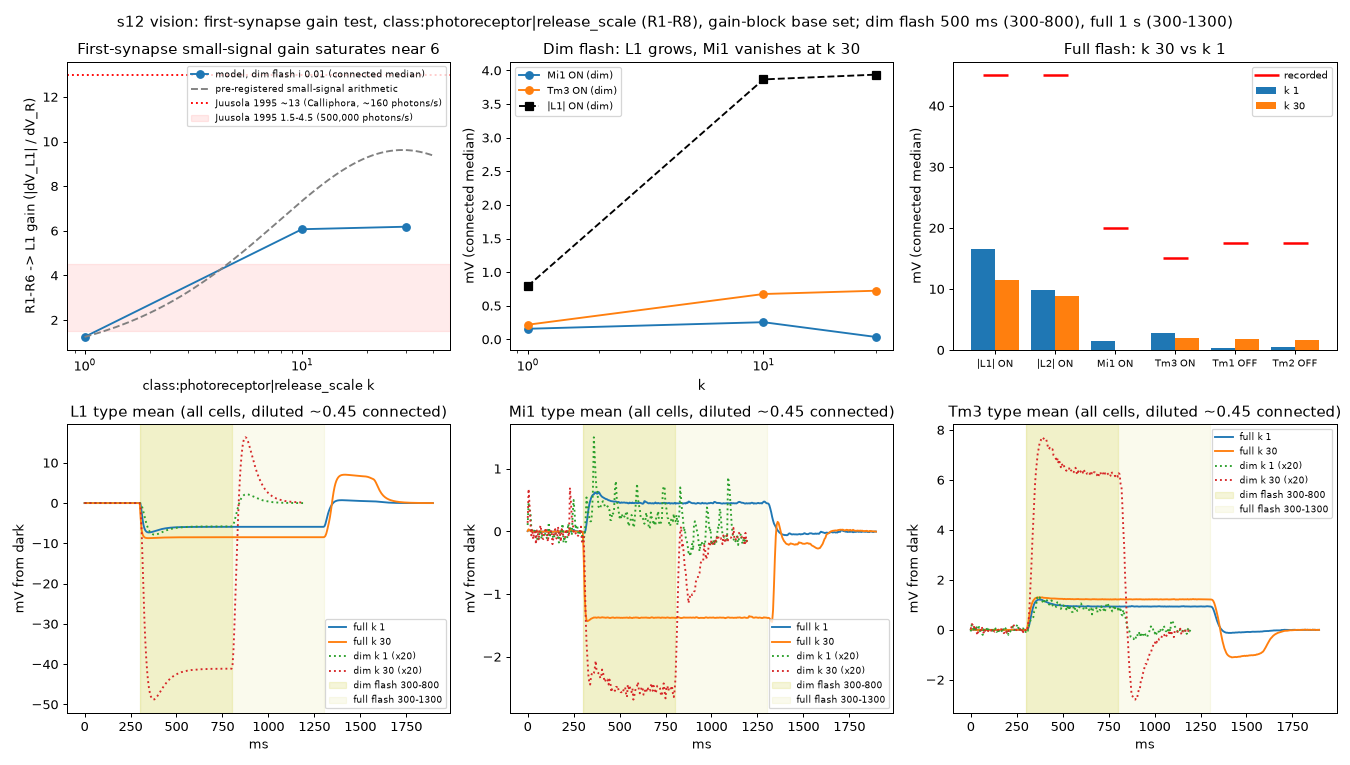
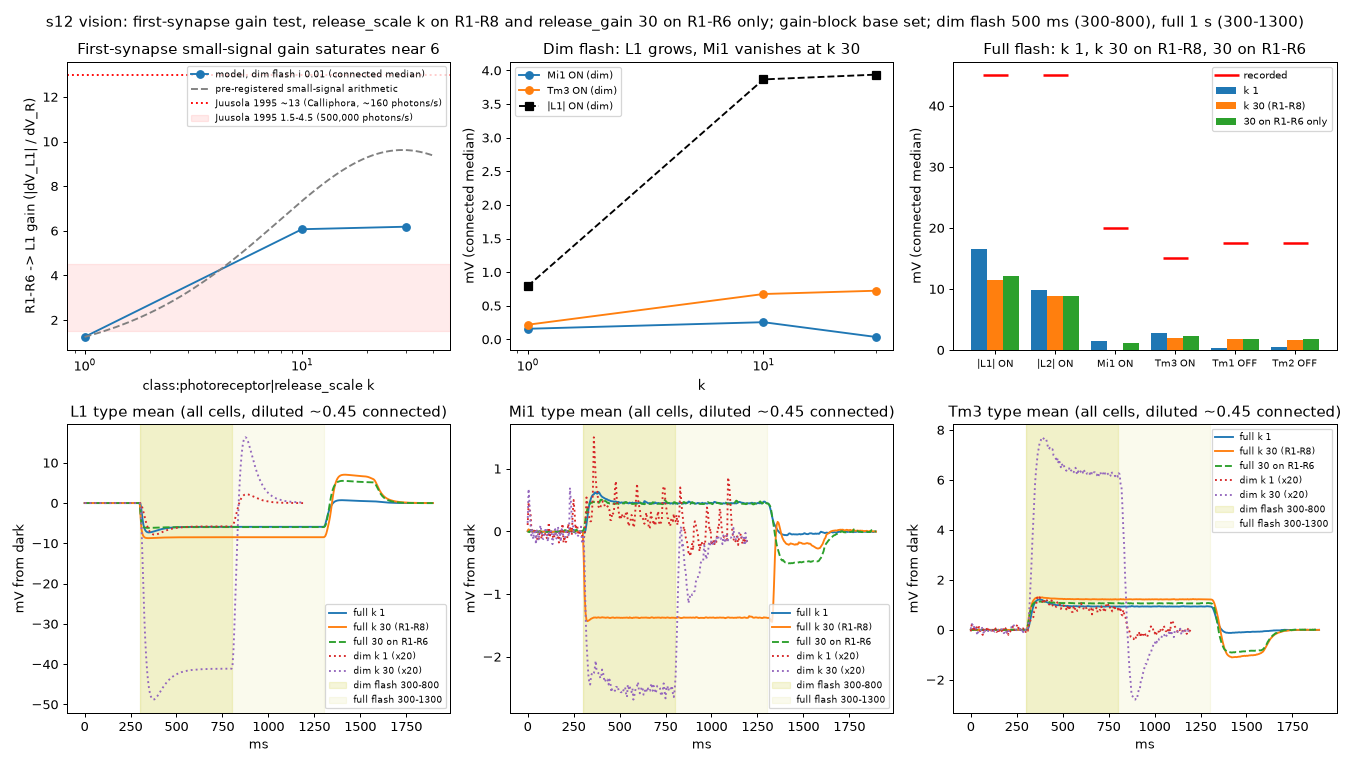
F-VISION-8 and DECISIONS result: first-synapse gain saturates near 6 (bound (E-v0)/4s, derived); R1-R6-only arm restores Mi1 (+1.13 mV), confirming the R7/R8 reading; correction of the pre-registration's field claim; figure adds the R1-R6 arm

diff --git a/scripts/probes/visual_first_synapse_fig.py b/scripts/probes/visual_first_synapse_fig.py
@@ -5,7 +5,7 @@ matplotlib.use("Agg")
 import matplotlib.pyplot as plt
 R = "runs/s12/vision/"
 dim = {1: "flash_dim_i0.01", 10: "flash_kR10_i0.01", 30: "flash_kR30_i0.01"}
-full = {1: "flash_G_k1", 30: "flash_kR30_i1"}
+full = {1: "flash_G_k1", 30: "flash_kR30_i1", "R16": "flash_R16kR30_i1"}   # R16: release_gain 30 on R1-R6 only (addendum 03:53)
 def score(f):
     s = json.load(open(R + f + ".score.json"))
     return {k.split(":")[0] + (":" + k.split(":")[1] if k.startswith(("Tm1", "Tm2")) else ""): v["median_connected"] for k, v in s.items()}
@@ -30,23 +30,24 @@ a.set_xscale("log"); a.set_xlabel("k"); a.set_ylabel("mV (connected median)"); a
 a.set_title("Dim flash: L1 grows, Mi1 vanishes at k 30")
 a = ax[0, 2]
 names = ["L1", "L2", "Mi1", "Tm3", "Tm1:off_max", "Tm2:off_max"]
-s1, s30 = score(full[1]), score(full[30])
+s1, s30, s16 = score(full[1]), score(full[30]), score(full["R16"])
 x = np.arange(len(names))
-a.bar(x - 0.2, [abs(s1[n]) for n in names], 0.4, label="k 1")
-a.bar(x + 0.2, [abs(s30[n]) for n in names], 0.4, label="k 30")
+a.bar(x - 0.27, [abs(s1[n]) for n in names], 0.27, label="k 1")
+a.bar(x, [abs(s30[n]) for n in names], 0.27, label="k 30 (R1-R8)")
+a.bar(x + 0.27, [abs(s16[n]) for n in names], 0.27, label="30 on R1-R6 only")
 rec = [45, 45, 20, 15, 17.5, 17.5]
 a.plot(x, rec, "r_", ms=20, mew=2, label="recorded")
 a.set_xticks(x); a.set_xticklabels(["|L1| ON", "|L2| ON", "Mi1 ON", "Tm3 ON", "Tm1 OFF", "Tm2 OFF"], fontsize=8)
-a.set_ylabel("mV (connected median)"); a.set_title("Full flash: k 30 vs k 1"); a.legend(fontsize=8)
+a.set_ylabel("mV (connected median)"); a.set_title("Full flash: k 1, k 30 on R1-R8, 30 on R1-R6"); a.legend(fontsize=8)
 for j, (ty, lim) in enumerate((("L1", None), ("Mi1", None), ("Tm3", None))):
     a = ax[1, j]
-    for f, lab, st in ((full[1], "full k 1", "-"), (full[30], "full k 30", "-"), (dim[1], "dim k 1 (x20)", ":"), (dim[30], "dim k 30 (x20)", ":")):
+    for f, lab, st in ((full[1], "full k 1", "-"), (full[30], "full k 30 (R1-R8)", "-"), (full["R16"], "full 30 on R1-R6", "--"), (dim[1], "dim k 1 (x20)", ":"), (dim[30], "dim k 30 (x20)", ":")):
         d = json.load(open(R + f + ".json")); t = np.asarray(d["t_ms"]); x_ = np.asarray(d["trace"][ty])
         base = x_[(t >= 100) & (t < 300)].mean(); sc_ = 20 if "dim" in lab else 1
         a.plot(t, (x_ - base) * sc_, st, label=lab)
     a.axvspan(300, 800, color="y", alpha=0.15, label="dim flash 300-800"); a.axvspan(300, 1300, color="y", alpha=0.07, label="full flash 300-1300")
     a.set_title(f"{ty} type mean (all cells, diluted ~0.45 connected)"); a.set_xlabel("ms"); a.set_ylabel("mV from dark")
     a.legend(fontsize=7)
-fig.suptitle("s12 vision: first-synapse gain test, class:photoreceptor|release_scale (R1-R8), gain-block base set; dim flash 500 ms (300-800), full 1 s (300-1300)")
+fig.suptitle("s12 vision: first-synapse gain test, release_scale k on R1-R8 and release_gain 30 on R1-R6 only; gain-block base set; dim flash 500 ms (300-800), full 1 s (300-1300)")
 fig.tight_layout(); fig.savefig("docs/media/s12_vision_first_synapse.png", dpi=90)
 print("ok")

diff --git a/docs/FINDINGS.md b/docs/FINDINGS.md
@@ -983,3 +983,31 @@ Target (held out; `data/measurements/targets_session6.csv`): Wang et al. 2025 me
     - Mi1's input conductance in dark and light;
     - the light responses and spiking/graded mode of Pm and Dm1 cells;
     - the ort/HisCl reversal in LMCs, measured against the lamina's local extracellular potential. Zheng et al. 2006 report the lamina intercellular space at −20 to −40 mV relative to the retina, and LMC potentials of −40 to −70 mV on the same reference, so the recorded 45 mV LMC swing includes any light-evoked change in the lamina field and is not directly a transmembrane amplitude (inferred).
+
+### F-VISION-8: the photoreceptor→LMC synapse is about 10× below the recorded small-signal gain, and in a single-compartment conductance cell no release scale can close it; the limit is driving force times release-curve steepness (s12, 6 Oct 03:59)
+- **Test** (DECISIONS, pre-registration 03:42, addendum 03:53, result 03:59; figure `docs/media/s12_vision_first_synapse.png`, viewed).
+  - Gain block base set; `visual_flash.py` dim flash (500 ms at 0.01 and 0.05 of the full flash) and full flash (1 s).
+  - Photoreceptor release scaled by k 1, 10, 30 on R1-R8 (`class:photoreceptor|release_scale`), then 30 on R1-R6 alone (per-type `release_gain` row, diagnostic).
+  - Conductances from `visual_conductance_state.py`, split by presynaptic type, graded and spiking (split residual about 0).
+- **Result.**
+  - The R1-R6→L1 small-signal gain is 1.24 at k 1 (L2 0.66). Recorded in *Calliphora*: about 13 at a dim background, 1.5-4.5 in bright light (Juusola, Uusitalo & Weckström 1995). Transfer to *Drosophila* is inferred.
+  - The gain saturates at 6.1-6.2 from k 10.
+  - L1's dark potential falls with k (−46.1, then −58.2 at k 30), because tonic dark release scales too. At k 30 it is 2 s.d. below Pantazis et al. 2008 (−43 ± 7.3 mV).
+  - With R1-R8 scaled, Mi1's full-flash ON response vanished (+0.003 mV), because R7/R8 histamine onto Mi1 (595 of 795 connected cells, about 11 synapses each) grew with light. With R1-R6 alone Mi1 returns to +1.13 mV (k 1: +1.51), and its inhibitory conductance falls in light.
+  - Tm1/Tm2 OFF grew from 0.35/0.53 to about 1.8 mV with either arm. Mi1, Tm3 and L1/L2 stay 4-18× short of their recordings.
+- **Mechanism (derived).** In a one-compartment cell with leak, excitation and a histamine-gated chloride conductance g_i (reversal E), let v₀ be the potential with g_i = 0 and a = 1 + g_e. If g_i is proportional to release r(V_R), the small-signal gain is
+  - gain = (E − v₀) · a · g_i / (a + g_i)² · (d ln r / dV_R) ≤ (E − v₀)/(4s),
+  - where 1/s is the release curve's logarithmic slope at the dark potential: the distance to the foot for a linear rule, the e-fold for an exponential one.
+  - In the model, E − v₀ = 25.2 mV (−70 against L1's −44.8) and s ≈ 0.65 mV, so the ceiling is about 9.7. Scaling release only slides g_i along the a·g_i/(a + g_i)² curve, which k 30 already sits on top of (g_i 1.17 against a 1.16).
+- **Sources on the two factors (measured unless marked).**
+  - Release extent: in *Calliphora* photoreceptor release falls steeply about 12 mV below the dark resting potential (Uusitalo et al. 1995, J Neurophysiol, abstract). With a linear rule that foot gives a ceiling near 0.5. So the recorded gain needs a curved release with e-fold s of about 0.5-1 mV (inferred).
+  - Driving force: the lamina space is −20 to −40 mV against the retina in darkness, with LMCs at −40 to −70 on the same reference (Zheng et al. 2006, *Drosophila*). In *Calliphora* the space sits 30 mV below the retina in the dark and depolarises in light (Weckström & Laughlin 2010). The LMC transmembrane dark potential may therefore be 20-30 mV less negative than the recorded one (inferred). The ort reversal against that transmembrane potential is not measured.
+  - At s = 1 mV, 13 needs E − v₀ ≈ 52 mV; at s = 2 mV, about 104 mV (derived).
+- **Reading.**
+  - The first-synapse shortfall is a model-form limit: a linear release rule with a near-zero foot plus a recorded-potential operating point. It is not a missing gain.
+  - The R7/R8 inputs to L1 and Mi1 in the medulla are large enough to reverse Mi1's light response when overdriven, so any photoreceptor-level scale must be per type.
+  - Next discriminating experiment: a curved release rule (bounded s) together with an LMC transmembrane offset from the lamina field (bounded 0-30 mV). Train on the dim gain; hold out L1's dark potential and the full-flash medulla responses.
+  - Recordings that would settle it:
+    - a *Drosophila* R→LMC gain or release curve;
+    - LMC transmembrane potential and ort reversal against the lamina space;
+    - the sign and strength of R8→Mi1.

diff --git a/docs/DECISIONS.md b/docs/DECISIONS.md
@@ -2497,3 +2497,36 @@ At k 30 the full flash flipped Mi1 to −1.4 mV, failing the 1.0-2.5 mV predicti
 - L1 is unchanged from the k 30 arm within 0.5 mV.
 
 If Mi1 still flips, the R7/R8 reading is wrong.
+
+### Result: first-synapse gain and the R1-R6 addendum (6 October, 03:59; `runs/s12/vision/flash_kR{10,30}_i0.01`, `flash_kR30_i1`, `flash_R16kR30_i1`, `cstate2_kR{1,30}`, `cstate2_R16kR30`; figure `docs/media/s12_vision_first_synapse.png`, viewed; F-VISION-8; nothing adopted)
+
+Against the 03:42 pre-registration (connected medians; dark potentials from the conductance probe, connected cells):
+
+| Arm | Dim R→L1 gain (pred.) | L1 dark (pred.) | L1 ON full (pred.) | Mi1 ON full (pred.) |
+|---|---|---|---|---|
+| k 1 | 1.24 | −46.1 | −16.6 | +1.51 |
+| k 10 | **6.07** (5-7.5, pass) | all-cell mean −47.4; connected not measured (−51.3 ± 2) | | |
+| k 30, R1-R8 | **6.18** (6-9.6, pass at the low edge) | **−58.2** (−57.6 ± 2, pass) | **−11.5** (−8 to −14, pass) | **+0.003** (1.0-2.5, **fail**) |
+| 30 on R1-R6 only (addendum) | | −57.6 | −12.1 (within 0.5 of k 30: **fail by 0.07 mV**) | **+1.13** (1.0-2.5, pass) |
+
+- **Held out.** L1's dark potential at k 30 is −58.2 (R1-R6 only −57.6) against Pantazis et al. 2008 −43 ± 7.3 mV: 2 s.d. below, as predicted. The arm fails the held-out check.
+- **Addendum.** Mi1 recovers (+1.13 mV), and its inhibitory conductance now falls in light (1.73 to 1.46 leak units; at k 30 on R1-R8 it rose, 1.85 to 2.49). So the k 30 flip was R7/R8 histamine onto Mi1, as the addendum read it.
+  - L1 moved 0.57 mV, just outside the declared 0.5 mV. The cause is that the class switch also scaled R7/R8→L1 synapses in the medulla (F-VISION-4); L1's dark inhibitory conductance drops from 1.28 to 1.17 without them.
+  - The same synapses explain the unconnected L1 cells that responded at k 30 (all-cell median −10.3). With R1-R6 alone the all-cell median is −1.3, so this is R7/R8 input, not lateral spread.
+- **Gain saturation.** The gain saturates at 6.1-6.2 by k 10, below the 13 recorded (*Calliphora*, dim background) and below the 9.6 small-signal estimate.
+  - The derived bound in F-VISION-8 is the general form. In a single-compartment conductance cell, the small-signal R→LMC gain cannot exceed (E_inh − v₀)/(4s), whatever the release scale. Here v₀ is L1's potential with no histamine (−44.8 mV), and s is the release curve's foot or e-fold below the dark potential (model 0.65 mV, effective). The model sits at 25.2/(4 × 0.65) ≈ 9.7.
+  - So a third release gain is not the next step; the remaining levers are the release curve's shape and the driving force.
+- **Correction to the 03:42 pre-registration's interpretation.** It named "the lamina field potential that adds driving force in light (Zheng et al. 2006)". That is not what the sources say.
+  - Zheng et al. 2006 give dark resting values: space −20 to −40 mV against the retina, LMCs −40 to −70 on the same reference.
+  - Weckström & Laughlin 2010 (*Calliphora*) find the cartridge space 30 mV below the retina in the dark, promoting tonic release, and depolarising in light, which backs off the presynaptic drive.
+  - So the field does not add driving force in light. What it may do is set the LMC transmembrane dark potential 20-30 mV less negative than the recorded value (inferred from the same-reference numbers). That would raise ort's driving force at every light level if the histamine-gated chloride reversal holds near −70 mV transmembrane (not measured).
+- **Uusitalo et al. 1995 (J Neurophysiol, *Calliphora*, abstract via Europe PMC).** Transmitter release "decreased dramatically approximately 12 mV below the resting potential" of the photoreceptors. The model's release floor is about 0.65 mV below the dark potential.
+  - A linear rule with a 12 mV foot would cap the gain near 0.5.
+  - The recorded high gain together with release continuing below dark points to a steep, curved (exponential-like) release curve, not a linear one with a high foot (inferred).
+- **Nothing adopted.** The k 30 and R1-R6 arms fail L1's held-out dark potential, and no arm moves Mi1 beyond 1.5 mV.
+
+**Next (pre-register first).** A two-lever block, each lever behind its own switch with declared bounds:
+1. A curved photoreceptor release rule (exponential in V − V_dark, e-fold s bounded 0.5-3 mV, with tonic dark release fixed by the Uusitalo 12 mV extent).
+2. The LMC transmembrane operating point under the lamina field (dark offset 0-30 mV, Zheng 2006 / Weckström & Laughlin 2010).
+
+The derived bound sets the prediction before any run: gain ≤ (E − v₀)/(4s). Train on the dim R→L1 gain. Hold out L1's dark potential (Pantazis) and the full-flash Mi1/Tm3/Tm1/Tm2.
